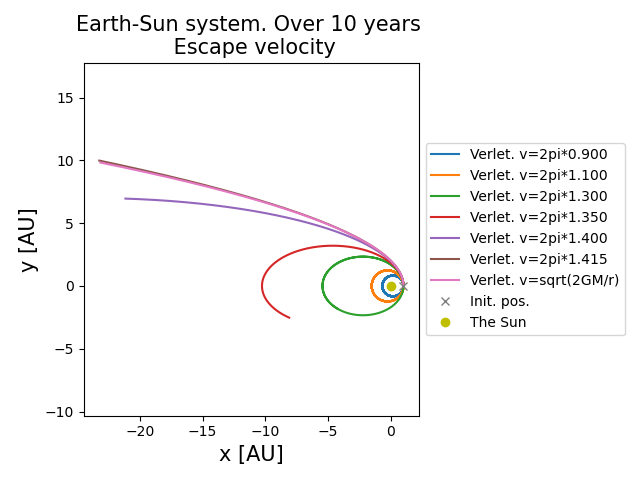
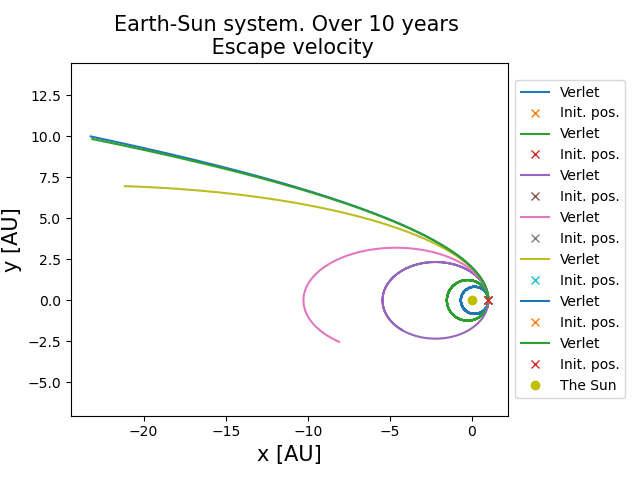
esc vel

diff --git a/Project3/main.py b/Project3/main.py
@@ -60,10 +60,10 @@ if __name__ == '__main__':
     ex_3i = args.i3
     '''
 
-    ex_3c = True
+    ex_3c = False
     ex_3d = False
     ex_3e = False
-    ex_3f = False
+    ex_3f = True
     ex_3g = False
     ex_3h = False
     ex_3i = False
@@ -122,16 +122,7 @@ if __name__ == '__main__':
         T  = 10                        # [yr]
         Np = 1                                  # Nr. of planets. Only Earth
         n  = int(10e3)
-        '''
-        pos         = np.zeros((ts, 2))
-        vel         = np.zeros((ts, 2))
-        acc         = np.zeros((ts, 2))
-        '''
-        init_pos = np.array([[1,0]])            # [AU]
-        init_vel = np.array([[0,2*np.pi]])      # [AU/yr]
 
-        init_pos = np.transpose(init_pos)
-        init_vel = np.transpose(init_vel)
 
         # Trial and error to find the initial velocity for escaping
         test = [0.9, 1.1, 1.3, 1.35, 1.4, 1.415]
@@ -139,23 +130,38 @@ if __name__ == '__main__':
         for i in range(len(test)):
             v_esc       = 2*np.pi*test[i]
 
-            pos[0, :]   = [1, 0]
-            vel[0, :]   = [0, v_esc]
-            acc[0, :]   = get_acceleration(GM, 0, pos)
+            init_pos = np.array([[1,0]])            # [AU]
+            init_vel = np.array([[0,v_esc]])      # [AU/yr]
 
-            pos_V, vel_V = Verlet(GM, ts, pos, vel, acc, dt)
-            func.Plot_Sun_Earth_system(pos_V, label="Verlet. v=2pi*%.3f"%test[i])
+            init_pos = np.transpose(init_pos)
+            init_vel = np.transpose(init_vel)
+
+            solver1 = Solver(M_E, init_pos, init_vel, Np, T, n)
+            pos_V, vel_V, t_V = solver1.solve(method = "Verlet")
+
+
+            #func.Plot_Sun_Earth_system(pos_V, label="Verlet. v=2pi*%.3f"%test[i])
+            plt.plot(pos_V[0,:,0], pos_V[1,:,0], label="Verlet")
+            plt.plot(pos_V[0,0,0], pos_V[1,0,0], "x", label="Init. pos.")
+
 
         # The formula for escape velocity
         v_esc       = np.sqrt(2*GM/1)           # sqrt(2GM/r)
 
-        pos[0, :]   = [1, 0]
-        vel[0, :]   = [0, v_esc]
-        acc[0, :]   = get_acceleration(GM, 0, pos)
+        init_pos = np.array([[1,0]])            # [AU]
+        init_vel = np.array([[0,v_esc]])      # [AU/yr]
 
-        pos_V, vel_V = Verlet(GM, ts, pos, vel, acc, dt)
-        Plot_Sun_Earth_system(pos_V, label="Verlet. v=sqrt(2GM/r)")
-        plt.plot(pos[0, 0], pos[0, 1], 'x', label='Init. pos.')
+        init_pos = np.transpose(init_pos)
+        init_vel = np.transpose(init_vel)
+
+        solver1 = Solver(M_E, init_pos, init_vel, Np, T, n)
+        pos, vel, t = solver1.solve(method = "Verlet")
+
+        #func.Plot_Sun_Earth_system(pos_V, label="Verlet. v=sqrt(2GM/r)")
+        plt.plot(pos[0,:,0], pos[1,:,0], label="Verlet")
+        plt.plot(pos[0,0,0], pos[1,0,0], "x", label="Init. pos.")
+
+        #plt.plot(pos[0, 0], pos[0, 1], 'x', label='Init. pos.')
 
         plt.title("Earth-Sun system. Over %g years \n Escape velocity" %T, fontsize=15)
         plt.plot(0,0,'yo', label='The Sun') # Plotte radius til solen kanskje..?
@@ -163,6 +169,7 @@ if __name__ == '__main__':
         plt.xlabel("x [AU]", fontsize=15); plt.ylabel("y [AU]", fontsize=15)
         plt.legend(loc='center left', bbox_to_anchor=(1, 0.5))
         plt.tight_layout()
+        plt.axis('equal')
         plt.savefig("Results/3f_v_esc_Earth_Sun_system.png"); plt.show()
 
     elif ex_test == True:
